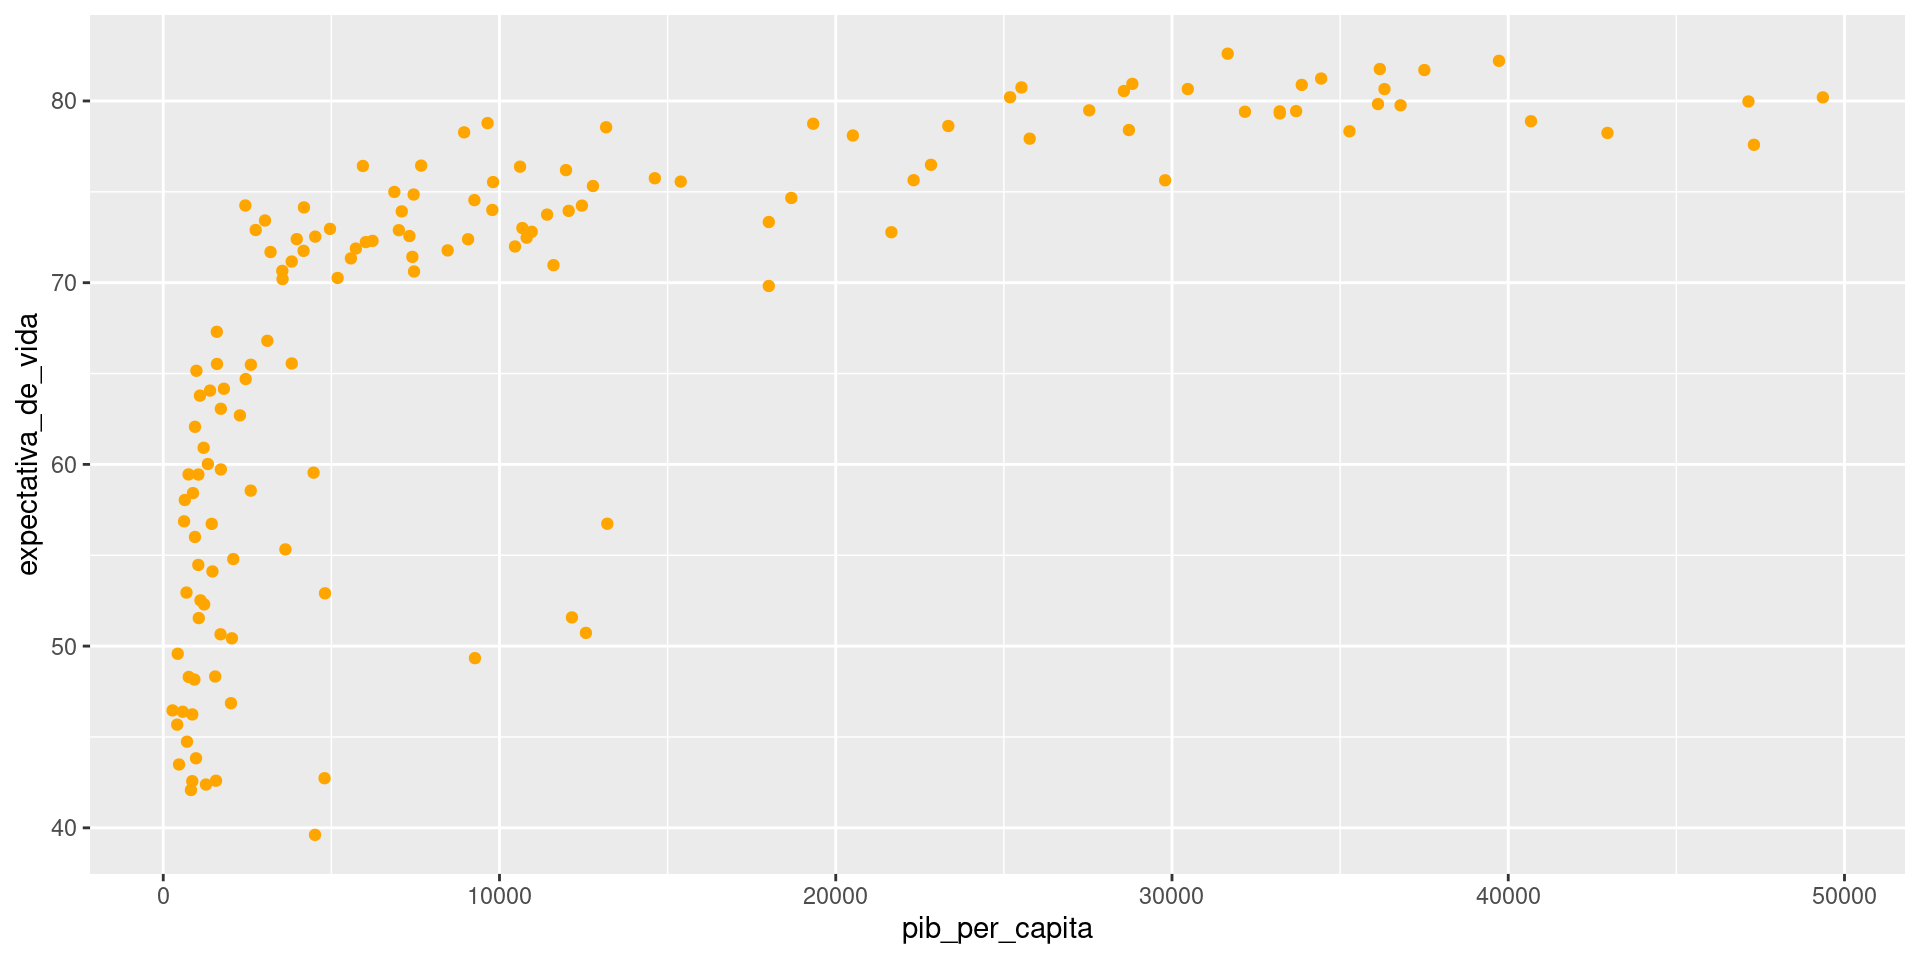
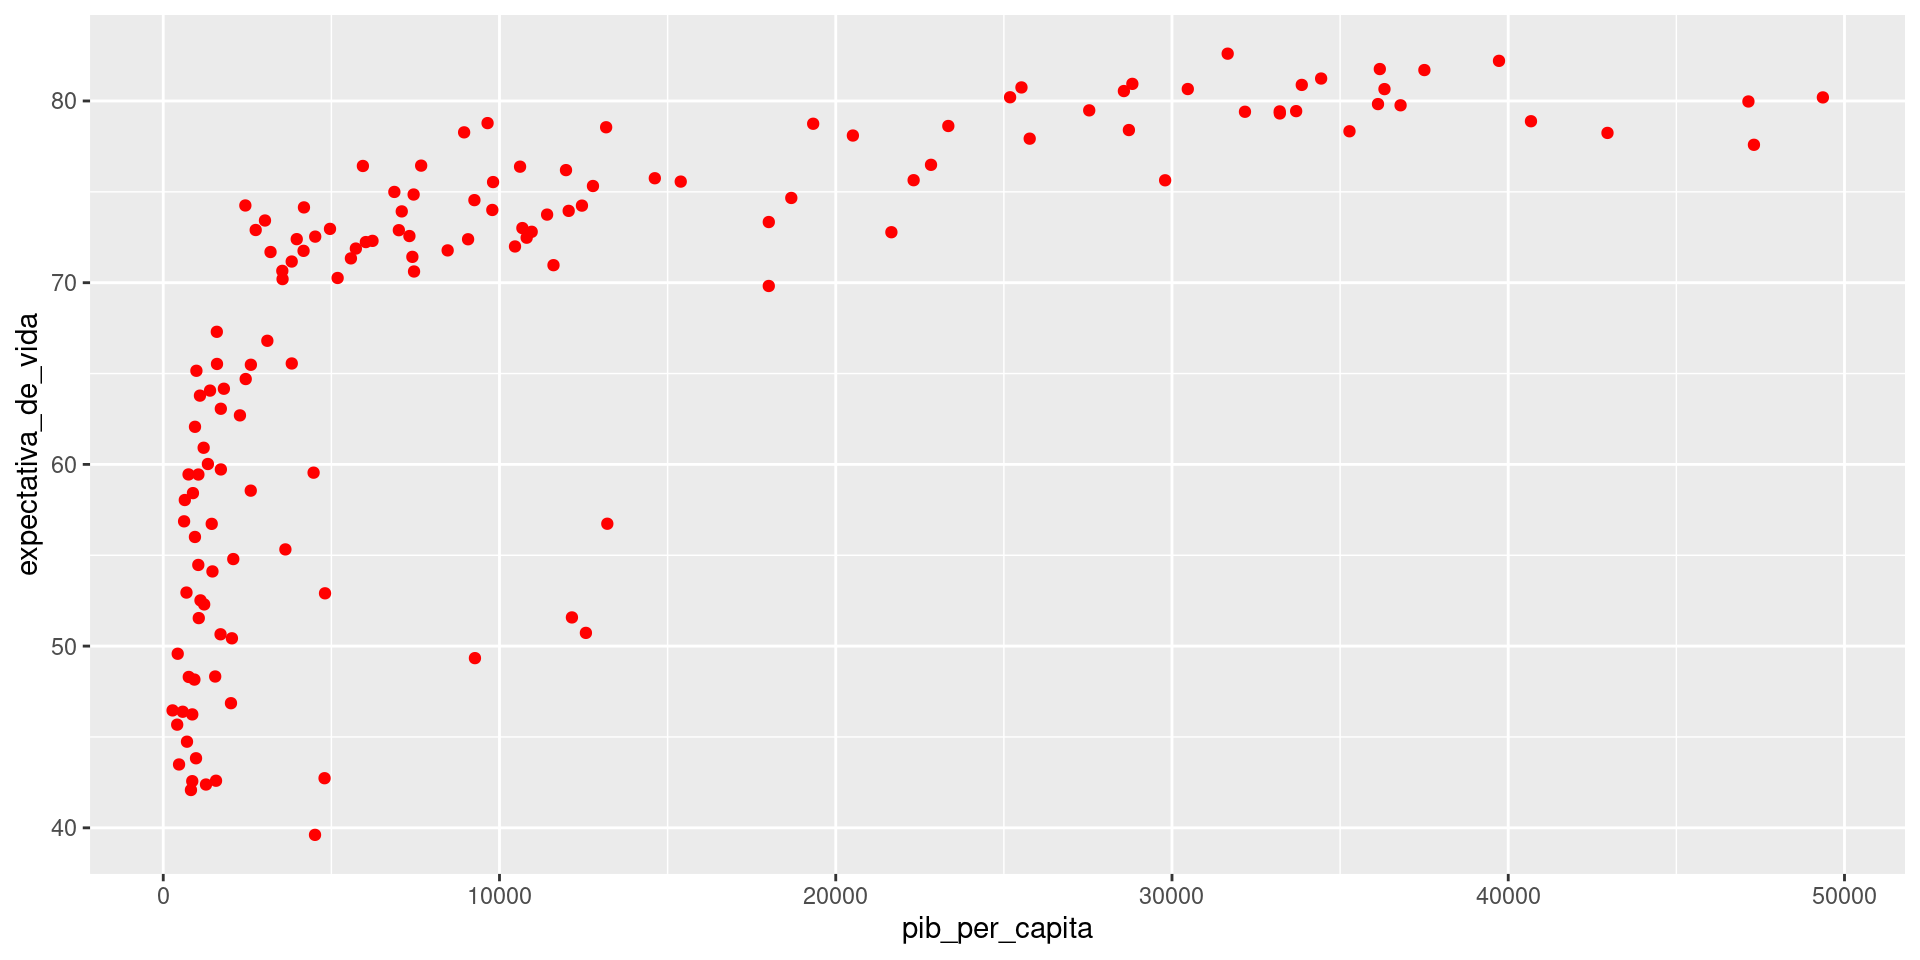
content

diff --git a/aula_02.html b/aula_02.html
@@ -749,7 +749,7 @@ Antonio Vinícius Barbosa
 <span id="cb13-5"><a href="#cb13-5"></a><span class="fu">ggplot</span>(<span class="at">data =</span> dados_gapminder_2007) <span class="sc">+</span></span>
 <span id="cb13-6"><a href="#cb13-6"></a>  <span class="fu">geom_point</span>(</span>
 <span id="cb13-7"><a href="#cb13-7"></a>    <span class="fu">aes</span>(<span class="at">x =</span> pib_per_capita, <span class="at">y =</span> expectativa_de_vida),</span>
-<span id="cb13-8"><a href="#cb13-8"></a>    <span class="at">color =</span> <span class="st">"orange"</span></span>
+<span id="cb13-8"><a href="#cb13-8"></a>    <span class="at">color =</span> <span class="st">"red"</span></span>
 <span id="cb13-9"><a href="#cb13-9"></a>    )</span></code><button title="Copy to Clipboard" class="code-copy-button"><i class="bi"></i></button></pre></div>
 </div>
 

diff --git a/aula_01.html b/aula_01.html
@@ -542,7 +542,7 @@ Antonio Vinícius Barbosa
 </ul>
 <div class="cell">
 <div class="cell-output-display">
-<div class="countdown" id="timer_0ae8409d" data-update-every="1" tabindex="0" style="right:0;bottom:0;">
+<div class="countdown" id="timer_78284932" data-update-every="1" tabindex="0" style="right:0;bottom:0;">
 <div class="countdown-controls"><button class="countdown-bump-down">−</button><button class="countdown-bump-up">+</button></div>
 <code class="countdown-time"><span class="countdown-digits minutes">03</span><span class="countdown-digits colon">:</span><span class="countdown-digits seconds">00</span></code>
 </div>
